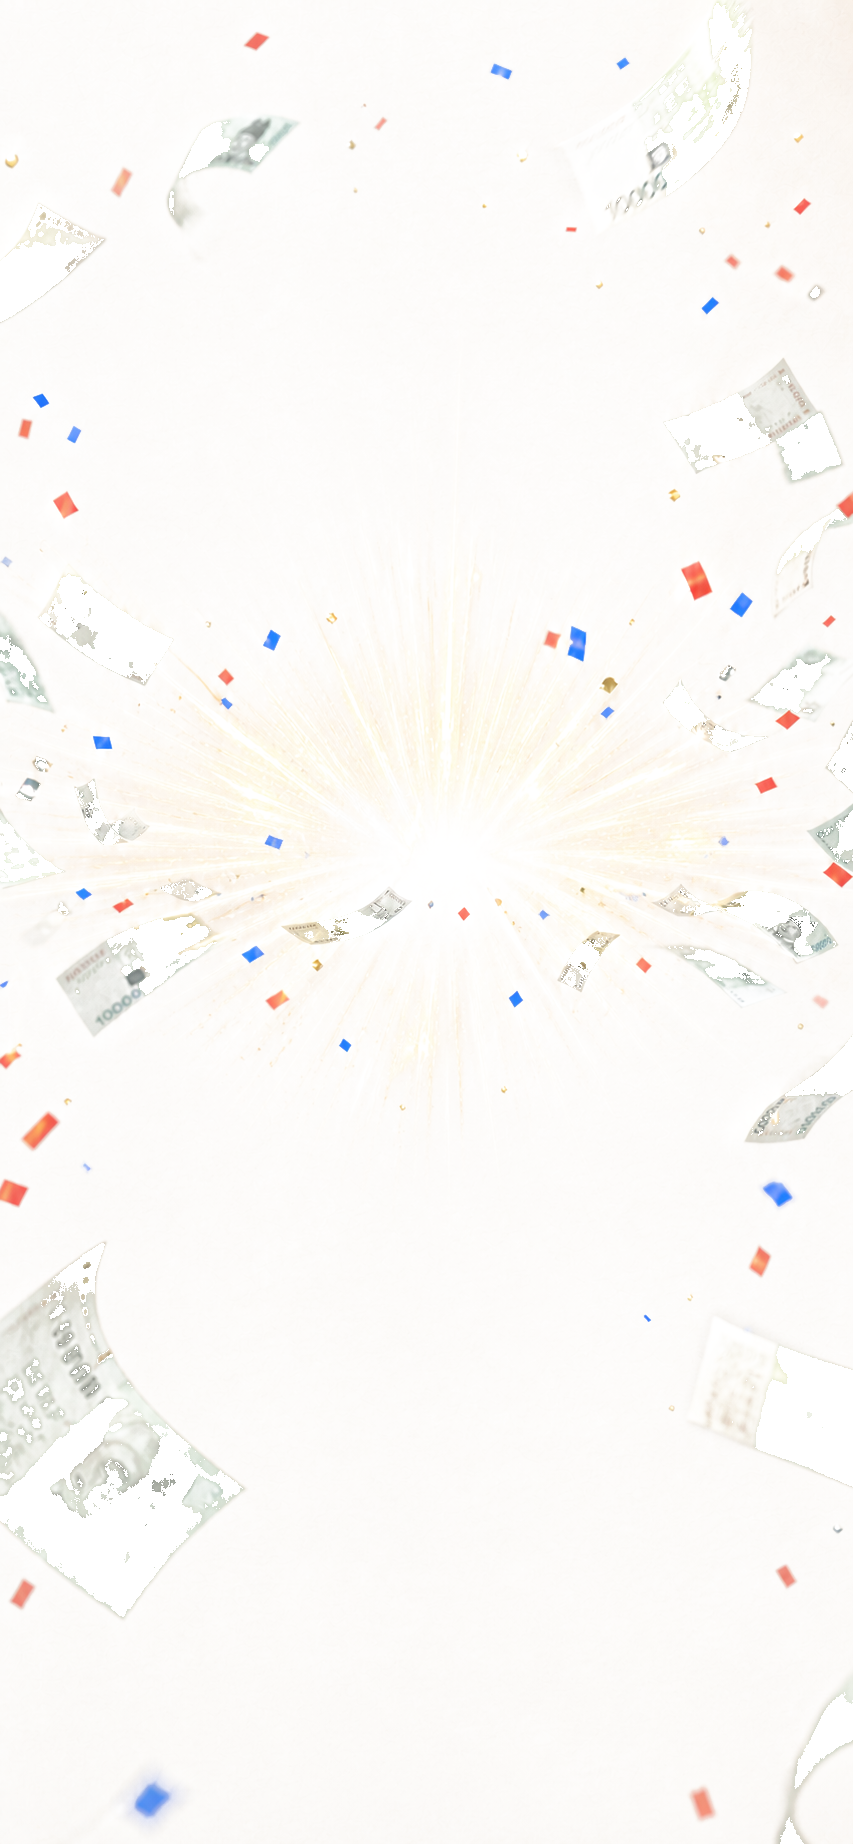
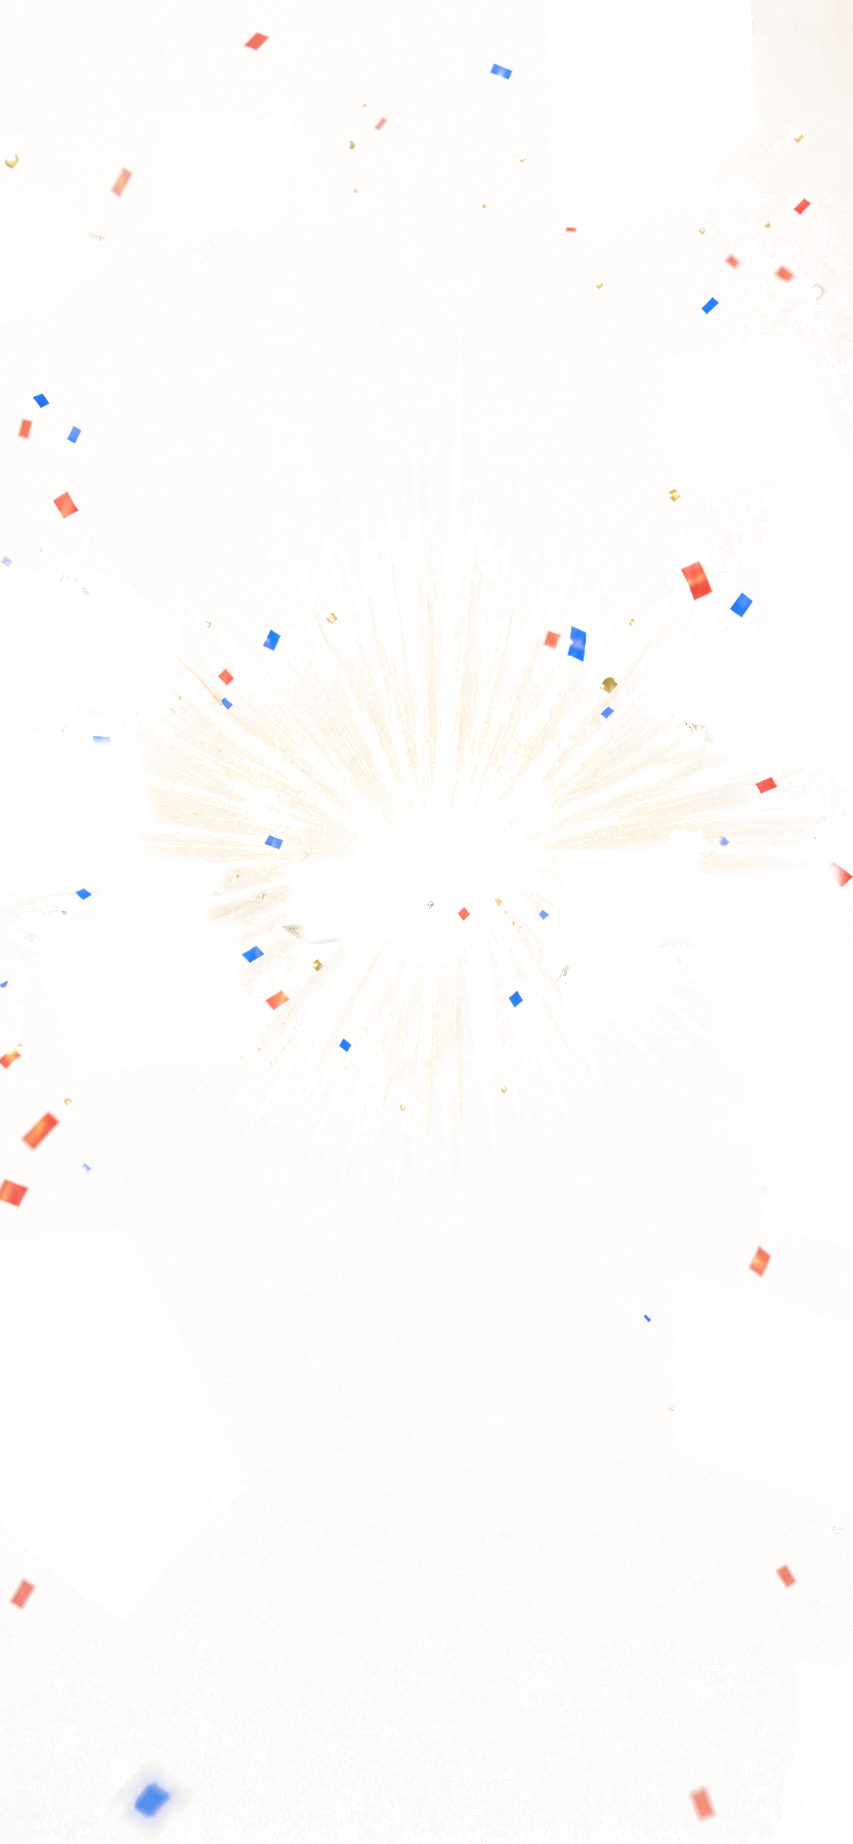
fix: 모션과 달력 장식 잔상 제거

diff --git a/scripts/extract_motion_assets.py b/scripts/extract_motion_assets.py
@@ -43,14 +43,54 @@ for red, green, blue, _ in burst.getdata():
     brightness = (red + green + blue) / 3
     gold = max(0, red - blue) + max(0, green - blue)
     colorful = max(red, green, blue) - min(red, green, blue)
-    green_note = green > red * 0.96 and green > blue * 1.08 and brightness < 225
+    green_note = (
+        green >= red * 0.92
+        and green > blue * 1.03
+        and green - red > -8
+        and red - blue < 45
+        and brightness < 253
+    )
+    gray_note_detail = colorful < 28 and brightness < 205
     gold_alpha = max(max(0, gold - 7) * 2.15, max(0, 250 - blue) * 5.0)
     color_alpha = max(0, colorful - 24) * 3.1
     alpha = int(min(225, max(gold_alpha, color_alpha)))
-    if green_note:
+    if green_note or gray_note_detail:
         alpha = 0
     burst_pixels.append((red, green, blue, alpha))
 burst.putdata(burst_pixels)
+# The reference also contains photographed banknotes. They are rendered as
+# independent animated layers, so remove every note-shaped region from the
+# otherwise-static burst to avoid frozen duplicates between animation loops.
+note_erase = Image.new("L", severance.size, 255)
+note_draw = ImageDraw.Draw(note_erase)
+static_note_polygons = [
+    [(548, 0), (741, 0), (761, 130), (594, 244), (553, 204)],
+    [(162, 113), (300, 118), (276, 225), (177, 234), (151, 193)],
+    [(0, 194), (70, 205), (110, 263), (0, 326)],
+    [(660, 357), (802, 345), (842, 467), (693, 489)],
+    [(795, 440), (853, 454), (853, 591), (772, 631), (758, 561)],
+    [(0, 565), (180, 618), (154, 714), (0, 675)],
+    [(785, 486), (853, 475), (853, 637), (768, 640)],
+    [(0, 633), (80, 642), (71, 730), (0, 713)],
+    [(659, 645), (853, 622), (853, 767), (718, 756)],
+    [(0, 728), (144, 742), (130, 883), (0, 890)],
+    [(35, 751), (132, 732), (158, 832), (50, 861)],
+    [(109, 846), (229, 863), (197, 935), (92, 919)],
+    [(283, 865), (414, 847), (421, 929), (302, 947)],
+    [(558, 856), (695, 839), (706, 931), (569, 950)],
+    [(681, 879), (838, 860), (853, 983), (715, 1011)],
+    [(34, 917), (234, 920), (246, 1052), (75, 1075)],
+    [(561, 930), (653, 910), (671, 1001), (575, 1025)],
+    [(699, 951), (853, 958), (853, 1084), (724, 1065)],
+    [(747, 1047), (853, 1064), (853, 1245), (763, 1227)],
+    [(0, 1241), (124, 1228), (246, 1478), (93, 1558), (0, 1461)],
+    [(675, 1273), (853, 1324), (853, 1513), (676, 1448)],
+    [(797, 1660), (853, 1669), (853, 1856), (803, 1856)],
+]
+for polygon in static_note_polygons:
+    note_draw.polygon(polygon, fill=0)
+note_erase = note_erase.filter(ImageFilter.GaussianBlur(4.0))
+burst.putalpha(ImageChops.multiply(burst.getchannel("A"), note_erase))
 burst.save(PUBLIC / "severance-burst.png")
 
 note_boxes = [
@@ -69,6 +109,14 @@ for index, box in enumerate(note_boxes, start=1):
 
 pending = Image.open(PUBLIC / "pending-background-selected.png")
 pending_fx = paper_alpha(pending, keep_dark=True, keep_gold=False)
+pending_alpha = pending_fx.getchannel("A")
+calendar_erase = Image.new("L", pending.size, 255)
+erase_draw = ImageDraw.Draw(calendar_erase)
+erase_draw.polygon([(635, 535), (760, 505), (810, 660), (650, 710), (605, 680)], fill=0)
+erase_draw.polygon([(0, 910), (75, 855), (210, 945), (160, 1085), (0, 1035)], fill=0)
+erase_draw.polygon([(638, 930), (735, 860), (853, 925), (853, 1060), (675, 1090)], fill=0)
+calendar_erase = calendar_erase.filter(ImageFilter.GaussianBlur(2.0))
+pending_fx.putalpha(ImageChops.multiply(pending_alpha, calendar_erase))
 pending_fx.save(PUBLIC / "pending-burst-calendars.png")
 
 pending_reference = Image.open(PUBLIC / "design-references" / "pending-selected.png")
